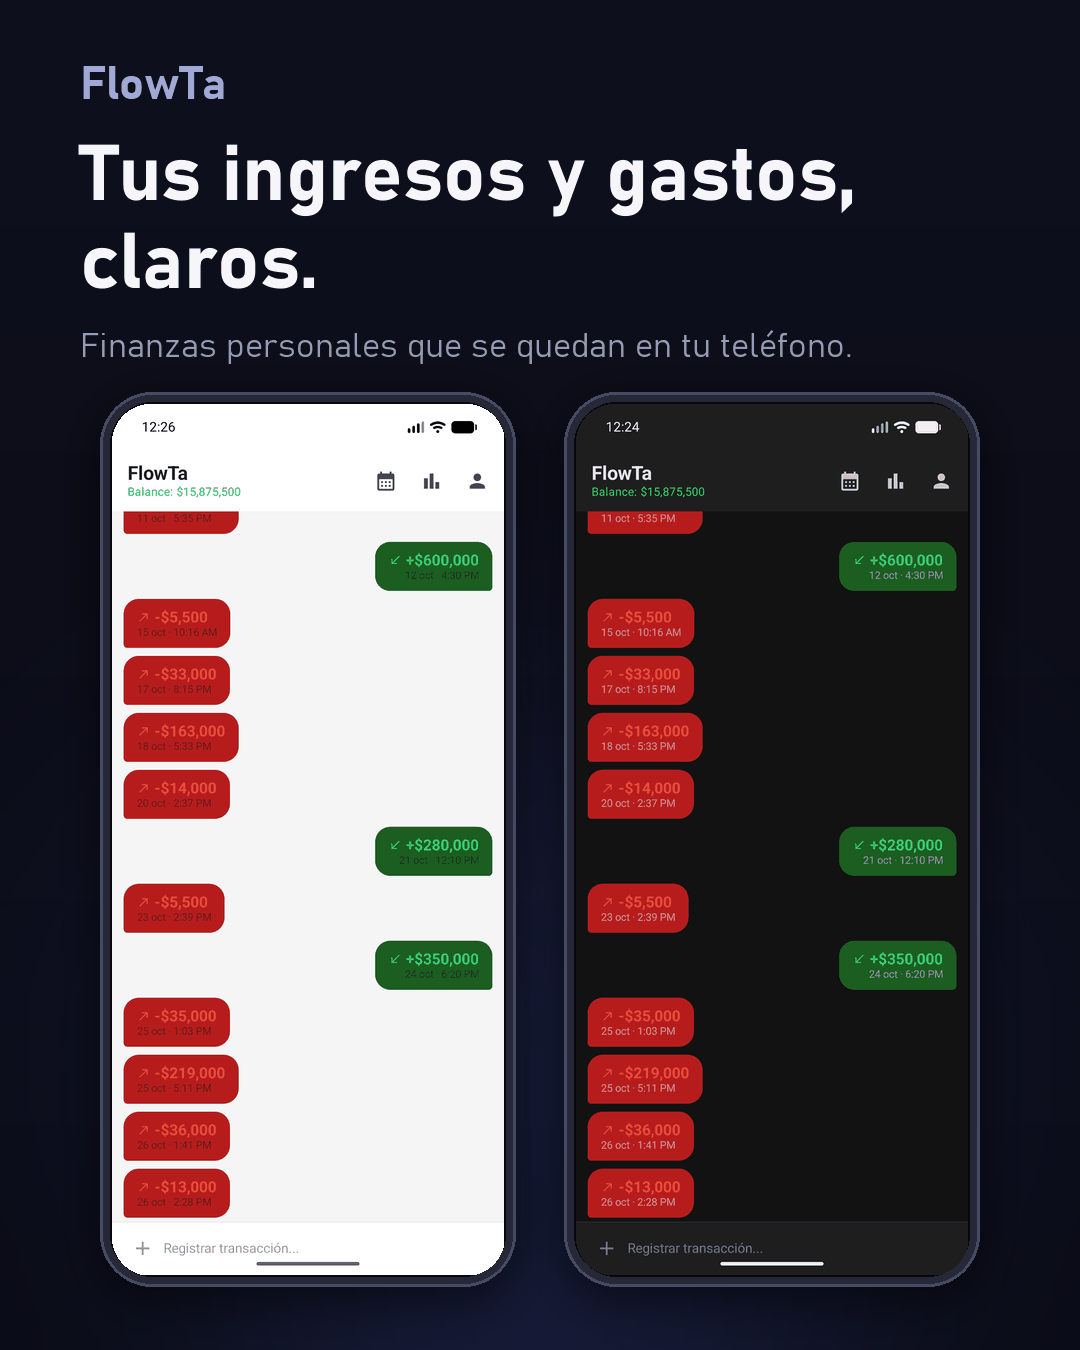
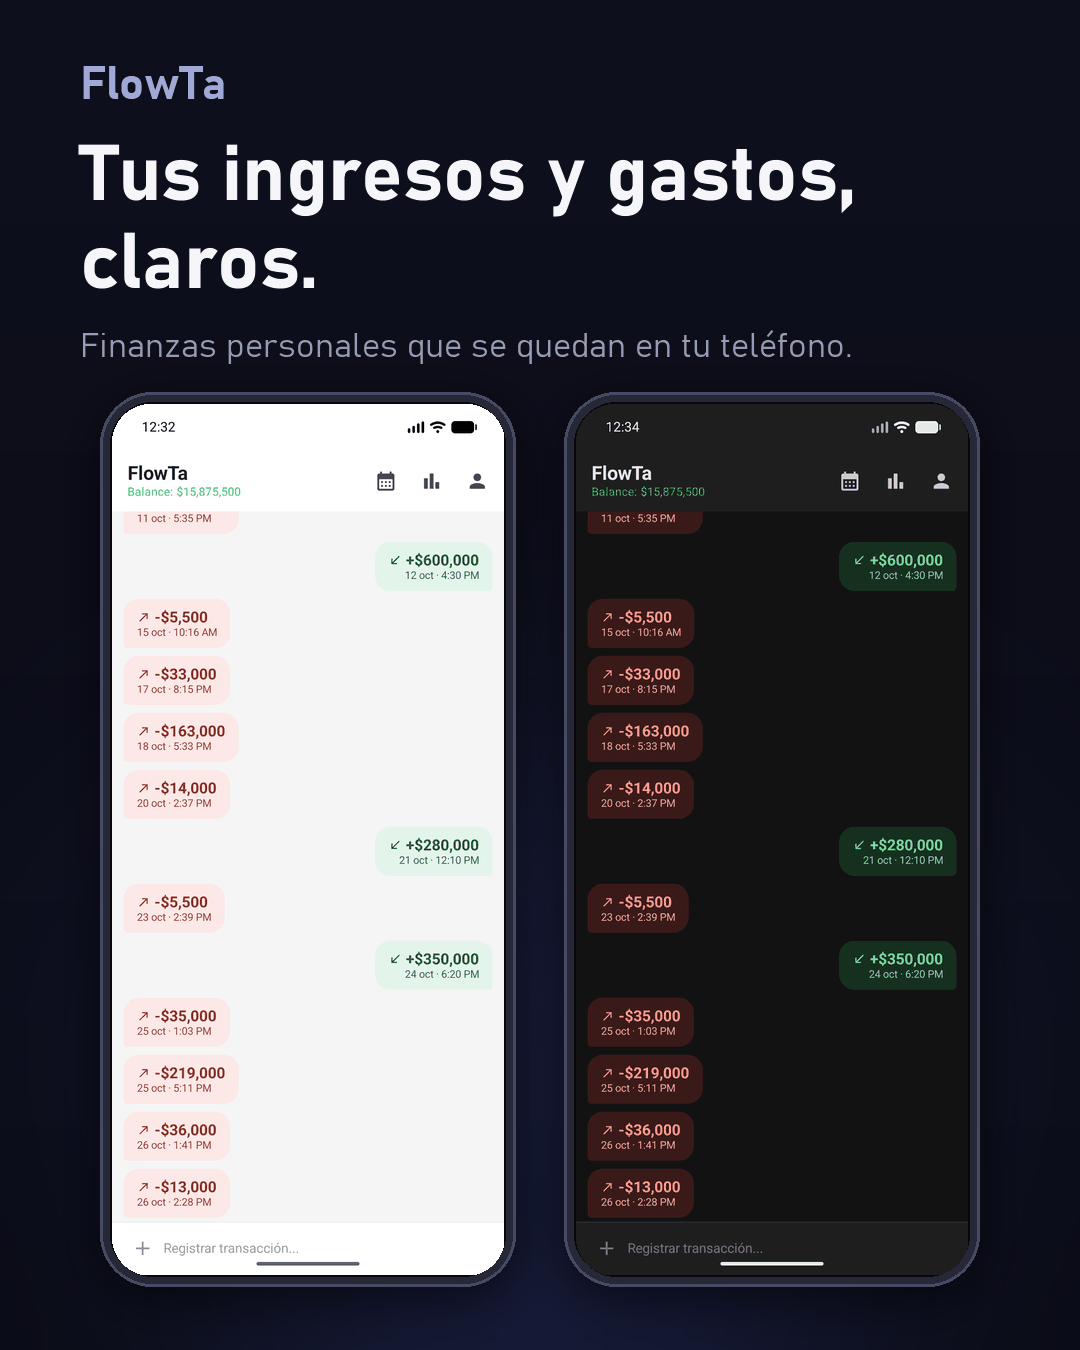
fix(ui): readable transaction bubble colors in light and dark themes

diff --git a/app/src/main/java/com/j4x/flowta/core/presentation/components/TransactionBubble.kt b/app/src/main/java/com/j4x/flowta/core/presentation/components/TransactionBubble.kt
@@ -37,13 +37,9 @@ import androidx.compose.ui.unit.dp
 import com.j4x.flowta.core.domain.model.CurrencyCode
 import com.j4x.flowta.core.presentation.LocalCurrencyCode
 import com.j4x.flowta.core.presentation.LocalCurrencySymbol
-import com.j4x.flowta.core.presentation.theme.ExpenseBubble
-import com.j4x.flowta.core.presentation.theme.ExpenseRed
-import com.j4x.flowta.core.presentation.theme.IncomeBubble
-import com.j4x.flowta.core.presentation.theme.IncomeGreen
-import com.j4x.flowta.core.presentation.theme.Indigo200
-import com.j4x.flowta.core.presentation.theme.TransferBubble
 import com.j4x.flowta.core.presentation.format.Formatters
+import com.j4x.flowta.core.presentation.theme.LocalDarkTheme
+import com.j4x.flowta.core.presentation.theme.bubbleColors
 
 @Composable
 fun TransactionBubble(
@@ -60,16 +56,9 @@ fun TransactionBubble(
     val isIncome   = flowType == "INCOME"
     val isTransfer = flowType == "TRANSFER"
 
-    val bubbleColor = when {
-        isTransfer -> TransferBubble
-        isIncome   -> IncomeBubble
-        else       -> ExpenseBubble
-    }
-    val amountColor = when {
-        isTransfer -> Indigo200
-        isIncome   -> IncomeGreen
-        else       -> ExpenseRed
-    }
+    val colors      = bubbleColors(flowType, LocalDarkTheme.current)
+    val bubbleColor = colors.container
+    val amountColor = colors.content
     val alignment = when {
         isTransfer -> Arrangement.Center
         isIncome   -> Arrangement.End
@@ -146,7 +135,7 @@ fun TransactionBubble(
                     Text(
                         text  = createdAt.toTransactionDate(),
                         style = MaterialTheme.typography.labelSmall,
-                        color = MaterialTheme.colorScheme.onSurface.copy(alpha = 0.6f)
+                        color = colors.date
                     )
                 }
             }

diff --git a/app/src/test/java/com/j4x/flowta/core/presentation/theme/BubbleColorsTest.kt b/app/src/test/java/com/j4x/flowta/core/presentation/theme/BubbleColorsTest.kt
@@ -1,0 +1,32 @@
+package com.j4x.flowta.core.presentation.theme
+
+import androidx.compose.ui.graphics.Color
+import androidx.compose.ui.graphics.luminance
+import org.junit.Assert.assertEquals
+import org.junit.Assert.assertTrue
+import org.junit.Test
+
+class BubbleColorsTest {
+
+    private fun contrast(a: Color, b: Color): Float {
+        val (hi, lo) = maxOf(a.luminance(), b.luminance()) to minOf(a.luminance(), b.luminance())
+        return (hi + 0.05f) / (lo + 0.05f)
+    }
+
+    @Test
+    fun picksColorsPerFlowTypeAndTheme() {
+        assertEquals(IncomeBubbleLight, bubbleColors("INCOME", dark = false).container)
+        assertEquals(IncomeBubbleDark, bubbleColors("INCOME", dark = true).container)
+        assertEquals(TransferBubbleDark, bubbleColors("TRANSFER", dark = true).container)
+        assertEquals(ExpenseBubbleLight, bubbleColors("EXPENSE", dark = false).container)
+    }
+
+    @Test
+    fun amountAndDateMeetWcagAaInAllCombinations() {
+        for (flow in listOf("INCOME", "EXPENSE", "TRANSFER")) for (dark in listOf(false, true)) {
+            val c = bubbleColors(flow, dark)
+            assertTrue("$flow dark=$dark amount", contrast(c.container, c.content) >= 4.5f)
+            assertTrue("$flow dark=$dark date", contrast(c.container, c.date) >= 4.5f)
+        }
+    }
+}

diff --git a/app/src/main/java/com/j4x/flowta/core/presentation/theme/Color.kt b/app/src/main/java/com/j4x/flowta/core/presentation/theme/Color.kt
@@ -10,9 +10,14 @@ val Indigo200   = Color(0xFF9FA8DA)
 // Semantic
 val IncomeGreen   = Color(0xFF2ECC71)
 val ExpenseRed    = Color(0xFFE74C3C)
-val IncomeBubble  = Color(0xFF1B5E20)
-val ExpenseBubble = Color(0xFFB71C1C)
-val TransferBubble = Color(0xFF1A237E)
+
+// Transaction bubbles: soft tinted container + strong same-hue text (all >= 4.5:1)
+val IncomeBubbleLight   = Color(0xFFE3F5EA); val IncomeBubbleTextLight   = Color(0xFF14632F); val IncomeBubbleDateLight   = Color(0xFF2E6B45)
+val ExpenseBubbleLight  = Color(0xFFFCE8E6); val ExpenseBubbleTextLight  = Color(0xFFA3261B); val ExpenseBubbleDateLight  = Color(0xFF8A3A33)
+val TransferBubbleLight = Color(0xFFE8EAF6); val TransferBubbleTextLight = Color(0xFF283593); val TransferBubbleDateLight = Color(0xFF3F4A8F)
+val IncomeBubbleDark    = Color(0xFF16301F); val IncomeBubbleTextDark    = Color(0xFF7EE2A3); val IncomeBubbleDateDark    = Color(0xFF8FCFA8)
+val ExpenseBubbleDark   = Color(0xFF3A1A18); val ExpenseBubbleTextDark   = Color(0xFFFF9A8F); val ExpenseBubbleDateDark   = Color(0xFFE8A9A2)
+val TransferBubbleDark  = Color(0xFF1E2240); val TransferBubbleTextDark  = Color(0xFFAAB4F5); val TransferBubbleDateDark  = Color(0xFFA3ACE0)
 
 // Surfaces — dark
 val DarkBackground = Color(0xFF121212)

diff --git a/app/src/main/java/com/j4x/flowta/core/presentation/theme/BubbleColors.kt b/app/src/main/java/com/j4x/flowta/core/presentation/theme/BubbleColors.kt
@@ -1,0 +1,21 @@
+package com.j4x.flowta.core.presentation.theme
+
+import androidx.compose.runtime.compositionLocalOf
+import androidx.compose.ui.graphics.Color
+
+/** True when [FlowTaTheme] is rendering its dark scheme (honors the manual Settings toggle). */
+val LocalDarkTheme = compositionLocalOf { false }
+
+data class BubbleColors(val container: Color, val content: Color, val date: Color)
+
+fun bubbleColors(flowType: String, dark: Boolean): BubbleColors = when (flowType) {
+    "TRANSFER" ->
+        if (dark) BubbleColors(TransferBubbleDark, TransferBubbleTextDark, TransferBubbleDateDark)
+        else BubbleColors(TransferBubbleLight, TransferBubbleTextLight, TransferBubbleDateLight)
+    "INCOME" ->
+        if (dark) BubbleColors(IncomeBubbleDark, IncomeBubbleTextDark, IncomeBubbleDateDark)
+        else BubbleColors(IncomeBubbleLight, IncomeBubbleTextLight, IncomeBubbleDateLight)
+    else ->
+        if (dark) BubbleColors(ExpenseBubbleDark, ExpenseBubbleTextDark, ExpenseBubbleDateDark)
+        else BubbleColors(ExpenseBubbleLight, ExpenseBubbleTextLight, ExpenseBubbleDateLight)
+}

diff --git a/app/src/main/java/com/j4x/flowta/core/presentation/theme/Theme.kt b/app/src/main/java/com/j4x/flowta/core/presentation/theme/Theme.kt
@@ -8,6 +8,7 @@ import androidx.compose.material3.dynamicDarkColorScheme
 import androidx.compose.material3.dynamicLightColorScheme
 import androidx.compose.material3.lightColorScheme
 import androidx.compose.runtime.Composable
+import androidx.compose.runtime.CompositionLocalProvider
 import androidx.compose.ui.platform.LocalContext
 
 private val DarkColors = darkColorScheme(
@@ -43,9 +44,11 @@ fun FlowTaTheme(
         else      -> LightColors
     }
 
-    MaterialTheme(
-        colorScheme = colorScheme,
-        typography  = FlowTaTypography,
-        content     = content
-    )
+    CompositionLocalProvider(LocalDarkTheme provides darkTheme) {
+        MaterialTheme(
+            colorScheme = colorScheme,
+            typography  = FlowTaTypography,
+            content     = content
+        )
+    }
 }
